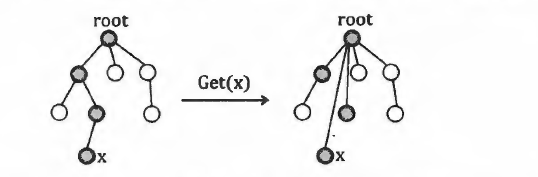
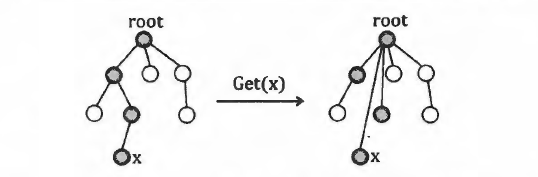
Site updated: 2023-07-27 15:11:15

Changed region(s): [[0.0892, 0.0847, 0.8327, 0.9322]]

diff --git a/2023/07/20/并查集/index.html b/2023/07/20/并查集/index.html
@@ -16,16 +16,16 @@
   <meta name="author" content="希梦Cidream">
   <meta name="keywords" content="">
   
-    <meta name="description" content="step 0 引入 并查集是一种可以动态维护(合并、查询)若干个不重叠的集合的数据结构。  step 1 定义集合我们可以在每个集合中选择任意一个固定元素作为集合的代表——这种方法叫做“代表元表示法”。 step 2 定义结构 case 1 链式结构 用邻接表表示集合  这种结构可以高效合并集合。但查询元素归属集合会浪费大量的时间。   case 2 线性结构 用一个数组存储集合归属  这种结构可">
+    <meta name="description" content="0 引入 并查集是一种可以动态维护(合并、查询)若干个不重叠的集合的数据结构。  1 定义集合我们可以在每个集合中选择任意一个固定元素作为集合的代表——这种方法叫做“代表元表示法”。 2 定义结构 case 1 链式结构  用邻接表表示集合  这种结构可以高效合并集合。但查询元素归属集合会浪费大量的时间。   case 2 线性结构  用一个数组存储集合归属  这种结构可以查询元素归属集合。但高效">
 <meta property="og:type" content="article">
 <meta property="og:title" content="并查集">
 <meta property="og:url" content="http://example.com/2023/07/20/%E5%B9%B6%E6%9F%A5%E9%9B%86/index.html">
 <meta property="og:site_name" content="希梦Cidream">
-<meta property="og:description" content="step 0 引入 并查集是一种可以动态维护(合并、查询)若干个不重叠的集合的数据结构。  step 1 定义集合我们可以在每个集合中选择任意一个固定元素作为集合的代表——这种方法叫做“代表元表示法”。 step 2 定义结构 case 1 链式结构 用邻接表表示集合  这种结构可以高效合并集合。但查询元素归属集合会浪费大量的时间。   case 2 线性结构 用一个数组存储集合归属  这种结构可">
+<meta property="og:description" content="0 引入 并查集是一种可以动态维护(合并、查询)若干个不重叠的集合的数据结构。  1 定义集合我们可以在每个集合中选择任意一个固定元素作为集合的代表——这种方法叫做“代表元表示法”。 2 定义结构 case 1 链式结构  用邻接表表示集合  这种结构可以高效合并集合。但查询元素归属集合会浪费大量的时间。   case 2 线性结构  用一个数组存储集合归属  这种结构可以查询元素归属集合。但高效">
 <meta property="og:locale" content="zh_CN">
 <meta property="og:image" content="http://example.com/img/%E6%95%B0%E6%8D%AE%E7%BB%93%E6%9E%84-%E5%B9%B6%E6%9F%A5%E9%9B%86-%E8%B7%AF%E5%BE%84%E5%8E%8B%E7%BC%A9.png">
 <meta property="article:published_time" content="2023-07-20T00:47:09.000Z">
-<meta property="article:modified_time" content="2023-07-24T14:01:26.000Z">
+<meta property="article:modified_time" content="2023-07-25T08:27:48.000Z">
 <meta property="article:author" content="希梦Cidream">
 <meta property="article:tag" content="数据结构">
 <meta property="article:tag" content="并查集">
@@ -286,24 +286,24 @@
             
               <div class="markdown-body">
                 
-                <h1 id="step-0-引入"><a href="#step-0-引入" class="headerlink" title="step 0 引入"></a>step 0 引入</h1><blockquote>
+                <h1 id="0-引入"><a href="#0-引入" class="headerlink" title="0 引入"></a>0 引入</h1><blockquote>
 <p><strong>并查集</strong>是一种可以<strong>动态维护</strong>(合并、查询)若干个<strong>不重叠</strong>的集合的<strong>数据结构</strong>。</p>
 </blockquote>
-<h1 id="step-1-定义集合"><a href="#step-1-定义集合" class="headerlink" title="step 1 定义集合"></a>step 1 定义集合</h1><p>我们可以在每个集合中选择任意一个固定元素作为集合的代表——这种方法叫做“<strong>代表元表示法</strong>”。</p>
-<h1 id="step-2-定义结构"><a href="#step-2-定义结构" class="headerlink" title="step 2 定义结构"></a>step 2 定义结构</h1><blockquote>
-<p><strong><font color=#008000>case 1 链式结构</font> 用邻接表表示集合</strong><br>  这种结构可以<strong>高效合并集合</strong>。但<strong>查询元素归属集合</strong>会浪费<strong>大量的时间</strong>。</p>
+<h1 id="1-定义集合"><a href="#1-定义集合" class="headerlink" title="1 定义集合"></a>1 定义集合</h1><p>我们可以在每个集合中选择任意一个固定元素作为集合的代表——这种方法叫做“<strong>代表元表示法</strong>”。</p>
+<h1 id="2-定义结构"><a href="#2-定义结构" class="headerlink" title="2 定义结构"></a>2 定义结构</h1><blockquote>
+<p><strong><font color=#008000>case 1 链式结构  用邻接表表示集合</strong></font><br>  这种结构可以<strong>高效合并集合</strong>。但<strong>查询元素归属集合</strong>会浪费<strong>大量的时间</strong>。</p>
 </blockquote>
 <blockquote>
-<p><strong><font color=#008000>case 2 线性结构</font> 用一个数组存储集合归属</strong><br>  这种结构可以<strong>查询元素归属集合</strong>。但<strong>高效合并集合</strong>会浪费<strong>大量的时间</strong>。</p>
+<p><strong><font color=#008000>case 2 线性结构  用一个数组存储集合归属</strong></font><br>  这种结构可以<strong>查询元素归属集合</strong>。但<strong>高效合并集合</strong>会浪费<strong>大量的时间</strong>。</p>
 </blockquote>
 <blockquote>
-<p><strong><font color=#008000>case 3 链式结构</font> 用邻接表表示集合</strong><br>  <strong>所有集合</strong>会以构成<strong>一片森林</strong>，这种结构可以较好地<strong>合并集合</strong>和<strong>查询集合归属</strong>所以<strong>效率更高</strong>。</p>
+<p><strong><font color=#008000>case 3 链式结构  用邻接表表示集合</strong></font><br>  <strong>所有集合</strong>会以构成<strong>一片森林</strong>，这种结构可以较好地<strong>合并集合</strong>和<strong>查询集合归属</strong>所以<strong>效率更高</strong>。</p>
 </blockquote>
-<h1 id="step-3-实现结构"><a href="#step-3-实现结构" class="headerlink" title="step 3 实现结构"></a>step 3 实现结构</h1><p>我们可以将<strong>根节点</strong>的<strong>代表元</strong>设为指向自己（根结点）。<br><font color=#008000><strong>合并集合</strong></font>，将其中一棵<strong>树根</strong>向<strong>另一棵树</strong>的<strong>树根</strong>。<br><font color=#008000><strong>查询集合归属</strong></font>，从该<strong>节点向上递归</strong>找着<strong>根节点</strong>从而确定<strong>集合归属</strong>。</p>
-<h1 id="step-4-优化结构"><a href="#step-4-优化结构" class="headerlink" title="step 4 优化结构"></a>step 4 优化结构</h1><p>以上的并查集<strong>查询效率效率仍然较低</strong>。我们将引入两种<strong>优化方式</strong>，分别是<strong>路径压缩</strong>和<strong>按秩合并（启发式合并）</strong>。</p>
+<h1 id="3-实现结构"><a href="#3-实现结构" class="headerlink" title="3 实现结构"></a>3 实现结构</h1><p>我们可以将<strong>根节点</strong>的<strong>代表元</strong>设为指向自己（根结点）。<br><font color=#008000><strong>合并集合</strong></font> ，将其中一棵<strong>树根</strong>向<strong>另一棵树</strong>的<strong>树根</strong>。<br><font color=#008000><strong>查询集合归属</strong></font> ，从该<strong>节点向上递归</strong>找着<strong>根节点</strong>从而确定<strong>集合归属</strong>。</p>
+<h1 id="4-优化结构"><a href="#4-优化结构" class="headerlink" title="4 优化结构"></a>4 优化结构</h1><p>以上的并查集<strong>查询效率效率仍然较低</strong>。我们将引入两种<strong>优化方式</strong>，分别是<strong>路径压缩</strong>和<strong>按秩合并（启发式合并）</strong>。</p>
 <h3 id="🔮路径压缩"><a href="#🔮路径压缩" class="headerlink" title="🔮路径压缩"></a>🔮路径压缩</h3><p>在<strong>case 1</strong>中，直接使用<strong>数组保存集合代表</strong>的<strong>查询效率很高</strong>我们考虑把<strong>两种思路</strong>进行结合，实际上，我们并不关心<strong>这棵树的具体形态</strong>。这就意味着下图<strong>两棵树</strong>是<strong>等价</strong>的。<br><img src="/img/%E6%95%B0%E6%8D%AE%E7%BB%93%E6%9E%84-%E5%B9%B6%E6%9F%A5%E9%9B%86-%E8%B7%AF%E5%BE%84%E5%8E%8B%E7%BC%A9.png" srcset="/img/loading.gif" lazyload><br>因此我们可以在每次执行<strong>get操作</strong>的同时把访问过的<strong>每个节点（查询元素的全部祖先）</strong>都指向<strong>树根</strong>，这种<strong>优化方法</strong>被称为<strong>路径压缩</strong>。</p>
 <h3 id="🔮按秩合并（启发式合并）"><a href="#🔮按秩合并（启发式合并）" class="headerlink" title="🔮按秩合并（启发式合并）"></a>🔮按秩合并（启发式合并）</h3><p>在<strong>合并集合</strong>的过程中，<strong>树高</strong>越<strong>高</strong>则<strong>效率</strong>越<strong>低</strong>，这启发我们将<strong>小结构合并到大结构</strong>使<strong>树高</strong>尽可能的<strong>小</strong>，我们可以在<strong>合并集合</strong>时比较<strong>树高的大小（集合大小）</strong>，在<strong>实际应用</strong>中应用较少。</p>
-<h1 id="step-5-时间复杂度"><a href="#step-5-时间复杂度" class="headerlink" title="step 5 时间复杂度"></a>step 5 时间复杂度</h1><table>
+<h1 id="5-时间复杂度"><a href="#5-时间复杂度" class="headerlink" title="5 时间复杂度"></a>5 时间复杂度</h1><table>
 <thead>
 <tr>
 <th><strong>优化</strong></th>
@@ -332,8 +332,9 @@
 <td>近似常数</td>
 </tr>
 </tbody></table>
-<h1 id="step-6-代码模板"><a href="#step-6-代码模板" class="headerlink" title="step 6 代码模板"></a>step 6 代码模板</h1><figure class="highlight c++"><table><tr><td class="gutter"><pre><span class="line">1</span><br><span class="line">2</span><br><span class="line">3</span><br><span class="line">4</span><br><span class="line">5</span><br><span class="line">6</span><br><span class="line">7</span><br><span class="line">8</span><br><span class="line">9</span><br><span class="line">10</span><br><span class="line">11</span><br><span class="line">12</span><br><span class="line">13</span><br><span class="line">14</span><br><span class="line">15</span><br><span class="line">16</span><br><span class="line">17</span><br><span class="line">18</span><br><span class="line">19</span><br><span class="line">20</span><br><span class="line">21</span><br><span class="line">22</span><br></pre></td><td class="code"><pre><code class="hljs c++"><span class="hljs-comment">// 并查集</span><br><span class="hljs-type">int</span> fa[SIZE];<br><span class="hljs-keyword">for</span> (<span class="hljs-type">int</span> i = <span class="hljs-number">0</span>; i &lt;= n; i++) fa[i] = i;<br><span class="hljs-function"><span class="hljs-type">int</span> <span class="hljs-title">get</span><span class="hljs-params">(<span class="hljs-type">int</span> x)</span> </span>&#123;<br>	<span class="hljs-keyword">if</span> (x == fa[x]) <span class="hljs-keyword">return</span> x;<br>	<span class="hljs-keyword">return</span> fa[x] = <span class="hljs-built_in">get</span>(fa[x]);<br>&#125;<br><span class="hljs-function"><span class="hljs-type">void</span> <span class="hljs-title">merge</span><span class="hljs-params">(<span class="hljs-type">int</span> x, <span class="hljs-type">int</span> y)</span> </span>&#123;<br>	fa[<span class="hljs-built_in">get</span>(x)] = <span class="hljs-built_in">get</span>(y);<br>&#125;<br><span class="hljs-comment">// 边带权的并查集</span><br><span class="hljs-function"><span class="hljs-type">int</span> <span class="hljs-title">get</span><span class="hljs-params">(<span class="hljs-type">int</span> x)</span> </span>&#123;<br>	<span class="hljs-keyword">if</span> (x == fa[x]) <span class="hljs-keyword">return</span> x;<br>	<span class="hljs-type">int</span> root = <span class="hljs-built_in">get</span>(fa[x]);  <span class="hljs-comment">// 递归计算集合代表</span><br>	d[x] += d[fa[x]];       <span class="hljs-comment">// 维护d数组——对边权求和</span><br>	<span class="hljs-keyword">return</span> fa[x] = root;    <span class="hljs-comment">// 路径压缩 </span><br>&#125;<br><span class="hljs-function"><span class="hljs-type">void</span> <span class="hljs-title">merge</span><span class="hljs-params">(<span class="hljs-type">int</span> x, <span class="hljs-type">int</span> y)</span> </span>&#123;<br>	x = <span class="hljs-built_in">get</span>(x), y = <span class="hljs-built_in">get</span>(y);<br>	fa[x] = y, d[x] = size[y];<br>	size[y] += size[x];<br>&#125;<br></code></pre></td></tr></table></figure>
-<h1 id="step-last-总结"><a href="#step-last-总结" class="headerlink" title="step last 总结"></a>step last 总结</h1><p>这个<strong>数据结构</strong>巧妙的解决<strong>集合</strong>的基本问题，后续我们会陆陆续续做些题<strong>巩固</strong>一下所学知识。</p>
+<h1 id="6-代码模板"><a href="#6-代码模板" class="headerlink" title="6 代码模板"></a>6 代码模板</h1><figure class="highlight c++"><table><tr><td class="gutter"><pre><span class="line">1</span><br><span class="line">2</span><br><span class="line">3</span><br><span class="line">4</span><br><span class="line">5</span><br><span class="line">6</span><br><span class="line">7</span><br><span class="line">8</span><br><span class="line">9</span><br><span class="line">10</span><br><span class="line">11</span><br><span class="line">12</span><br><span class="line">13</span><br><span class="line">14</span><br><span class="line">15</span><br><span class="line">16</span><br><span class="line">17</span><br><span class="line">18</span><br><span class="line">19</span><br><span class="line">20</span><br><span class="line">21</span><br><span class="line">22</span><br></pre></td><td class="code"><pre><code class="hljs c++"><span class="hljs-comment">// 并查集</span><br><span class="hljs-type">int</span> fa[SIZE];<br><span class="hljs-keyword">for</span> (<span class="hljs-type">int</span> i = <span class="hljs-number">0</span>; i &lt;= n; i++) fa[i] = i;<br><span class="hljs-function"><span class="hljs-type">int</span> <span class="hljs-title">get</span><span class="hljs-params">(<span class="hljs-type">int</span> x)</span> </span>&#123;<br>	<span class="hljs-keyword">if</span> (x == fa[x]) <span class="hljs-keyword">return</span> x;<br>	<span class="hljs-keyword">return</span> fa[x] = <span class="hljs-built_in">get</span>(fa[x]);<br>&#125;<br><span class="hljs-function"><span class="hljs-type">void</span> <span class="hljs-title">merge</span><span class="hljs-params">(<span class="hljs-type">int</span> x, <span class="hljs-type">int</span> y)</span> </span>&#123;<br>	fa[<span class="hljs-built_in">get</span>(x)] = <span class="hljs-built_in">get</span>(y);<br>&#125;<br><span class="hljs-comment">// 边带权的并查集</span><br><span class="hljs-function"><span class="hljs-type">int</span> <span class="hljs-title">get</span><span class="hljs-params">(<span class="hljs-type">int</span> x)</span> </span>&#123;<br>	<span class="hljs-keyword">if</span> (x == fa[x]) <span class="hljs-keyword">return</span> x;<br>	<span class="hljs-type">int</span> root = <span class="hljs-built_in">get</span>(fa[x]);  <span class="hljs-comment">// 递归计算集合代表</span><br>	d[x] += d[fa[x]];       <span class="hljs-comment">// 维护d数组——对边权求和</span><br>	<span class="hljs-keyword">return</span> fa[x] = root;    <span class="hljs-comment">// 路径压缩 </span><br>&#125;<br><span class="hljs-function"><span class="hljs-type">void</span> <span class="hljs-title">merge</span><span class="hljs-params">(<span class="hljs-type">int</span> x, <span class="hljs-type">int</span> y)</span> </span>&#123;<br>	x = <span class="hljs-built_in">get</span>(x), y = <span class="hljs-built_in">get</span>(y);<br>	fa[x] = y, d[x] = size[y];<br>	size[y] += size[x];<br>&#125;<br></code></pre></td></tr></table></figure>
+
+<h1 id="last-总结"><a href="#last-总结" class="headerlink" title="last 总结"></a>last 总结</h1><p>这个<strong>数据结构</strong>巧妙的解决<strong>集合</strong>的基本问题，后续我们会陆陆续续做些题<strong>巩固</strong>一下所学知识。</p>
 
                 
               </div>

diff --git a/index.html b/index.html
@@ -249,7 +249,7 @@
       
       <a class="index-excerpt index-excerpt__noimg" href="/2023/07/20/%E5%B9%B6%E6%9F%A5%E9%9B%86/" target="_self">
         <div>
-          step 0 引入 并查集是一种可以动态维护(合并、查询)若干个不重叠的集合的数据结构。  step 1 定义集合我们可以在每个集合中选择任意一个固定元素作为集合的代表——这种方法叫做“代表元表示法”。 step 2 定义结构 case 1 链式结构 用邻接表表示集合  这种结构可以高效合并集合。但查询元素归属集合会浪费大量的时间。   case 2 线性结构 用一个数组存储集合归属  这种结构可
+          0 引入 并查集是一种可以动态维护(合并、查询)若干个不重叠的集合的数据结构。  1 定义集合我们可以在每个集合中选择任意一个固定元素作为集合的代表——这种方法叫做“代表元表示法”。 2 定义结构 case 1 链式结构  用邻接表表示集合  这种结构可以高效合并集合。但查询元素归属集合会浪费大量的时间。   case 2 线性结构  用一个数组存储集合归属  这种结构可以查询元素归属集合。但高效
         </div>
       </a>
 
